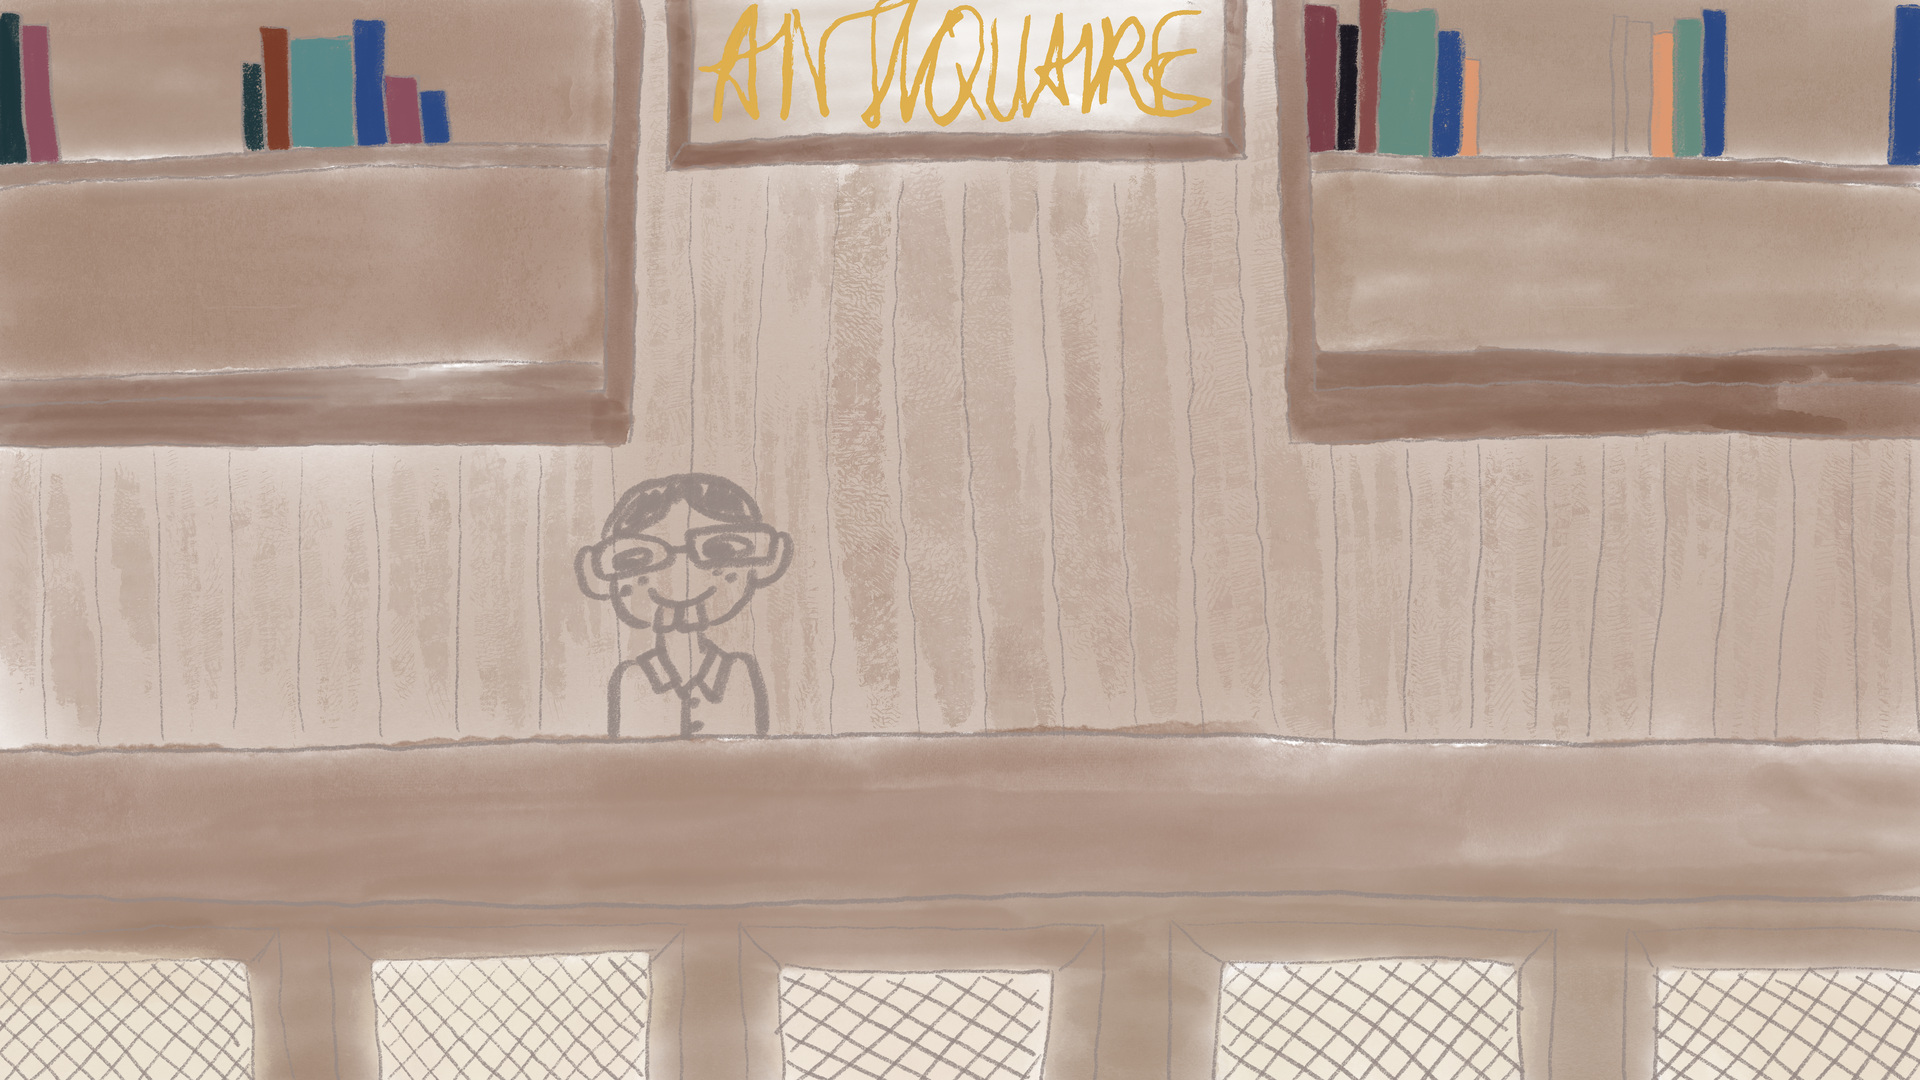
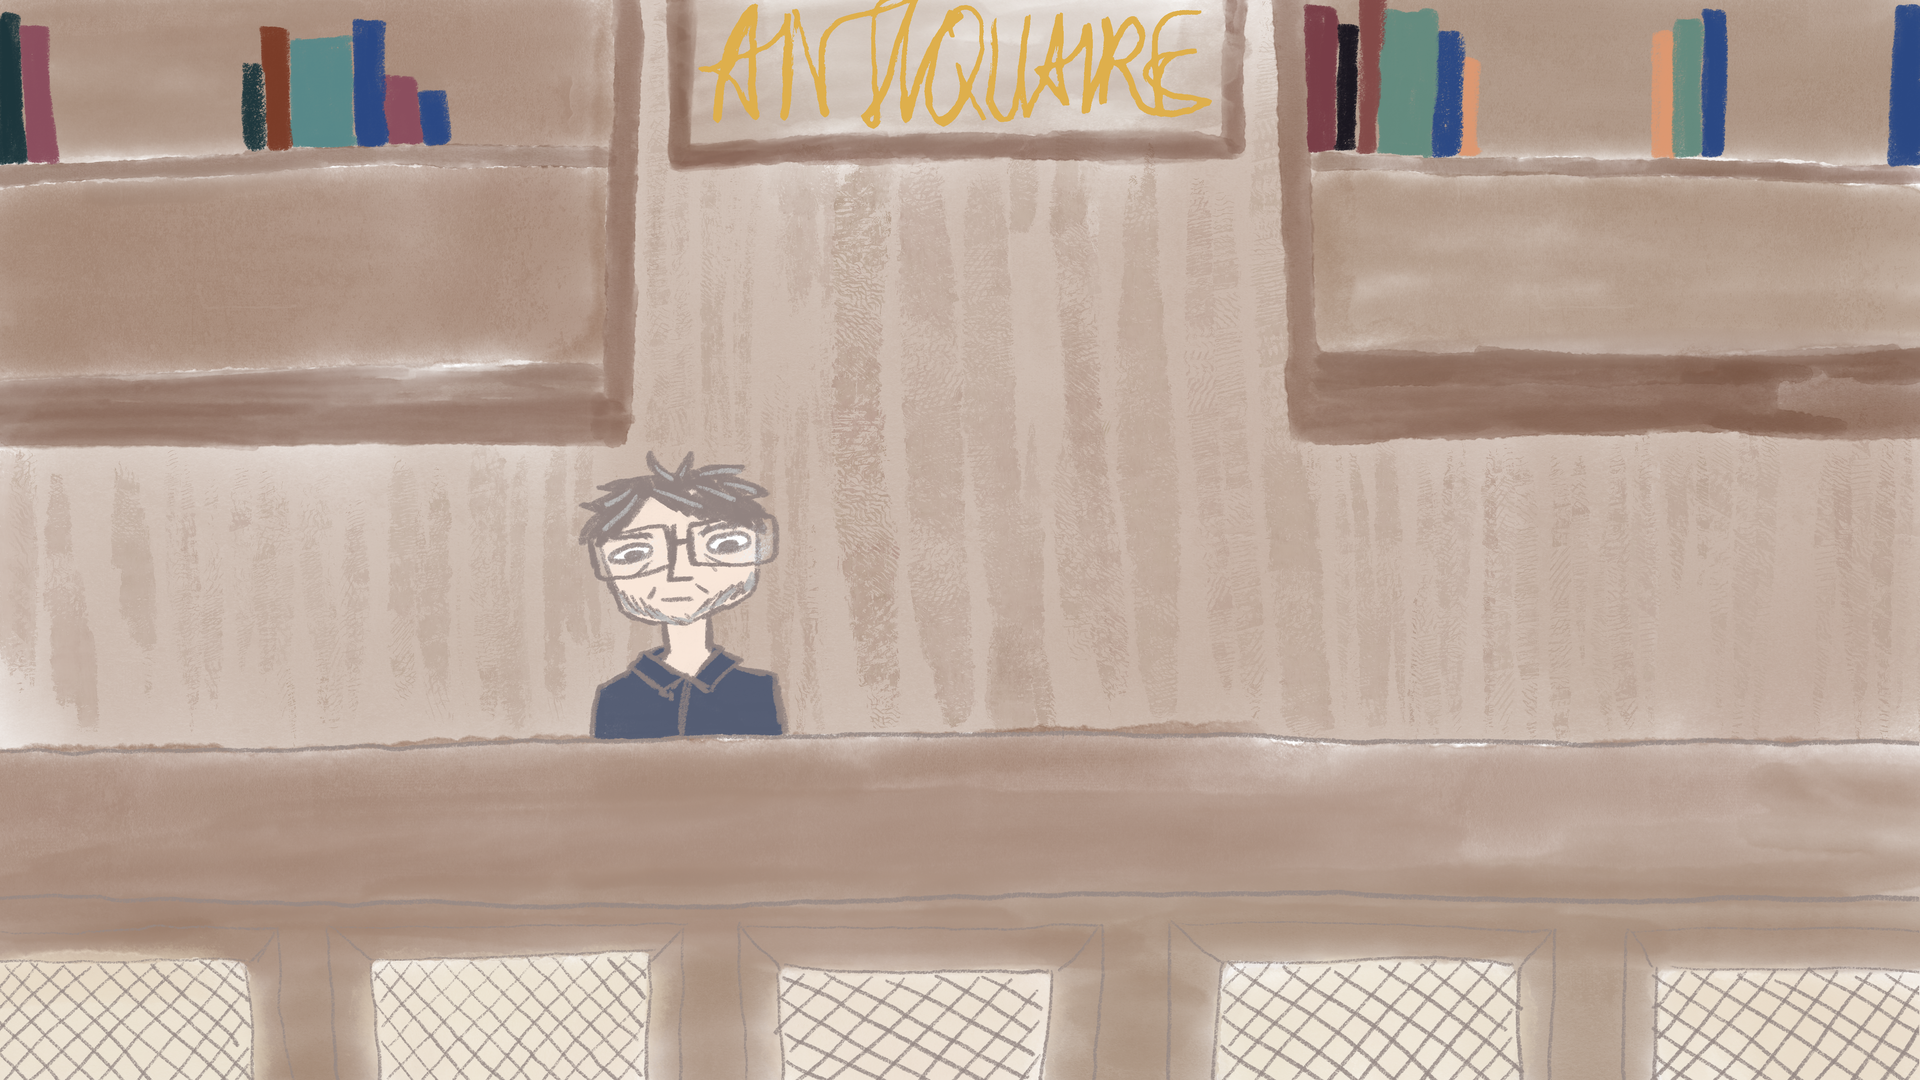
modif dessins + ajout héritages

diff --git a/Interactif/place.html b/Interactif/place.html
@@ -107,6 +107,9 @@
     <img src="../Interactif/Images/images_influences/Missionnaires_resultat.webp"
       class="objet influence clickable-transparency hidden" onclick="ouvrirPopup('Titre', 'Texte')">
 
+         <img src="../Interactif/Images/images_influences/heritages_resultat.webp"
+      class="objet influence clickable-transparency hidden" onclick="ouvrirPopup('Titre', 'Texte')">
+
     <!-- histoire -->
     <img src="../Interactif/Images/histoire_place_resultat.webp" class="placement clickable-transparency"
       data-image="../Interactif/Images/Images_national/national_zoom.webp" data-objets="national"
@@ -165,7 +168,7 @@
     <!--  culture  -->
 
 
-    <img src="../Interactif/Images/culture_test_resultat.webp" class="placement clickable-transparency"
+    <img src="../Interactif/Images/culture_place_resultat.webp" class="placement clickable-transparency"
       data-image="../Interactif/Images/Images_culture/culture_zoom_resultat.webp" data-objets="culture"
       onclick="changerImage(this)">
     <!-- images culture -->
